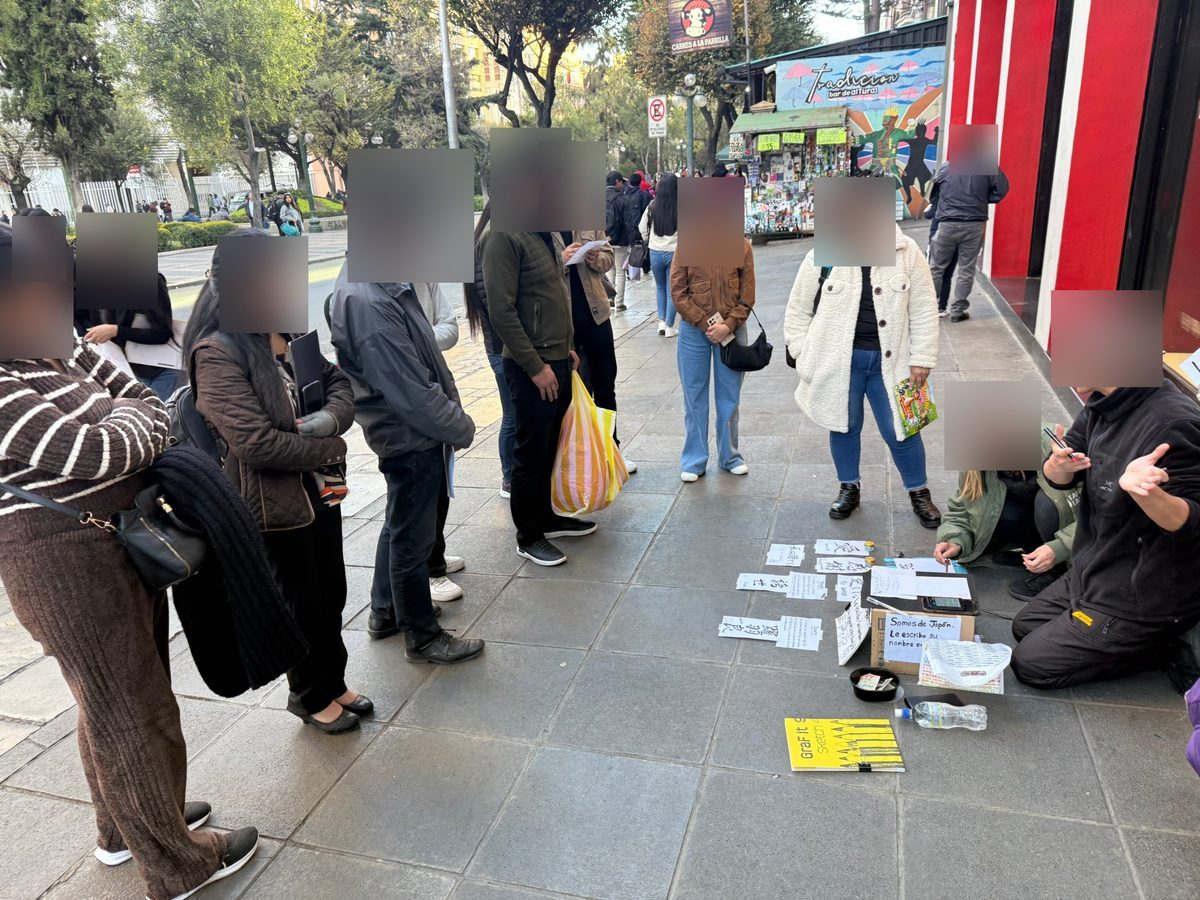
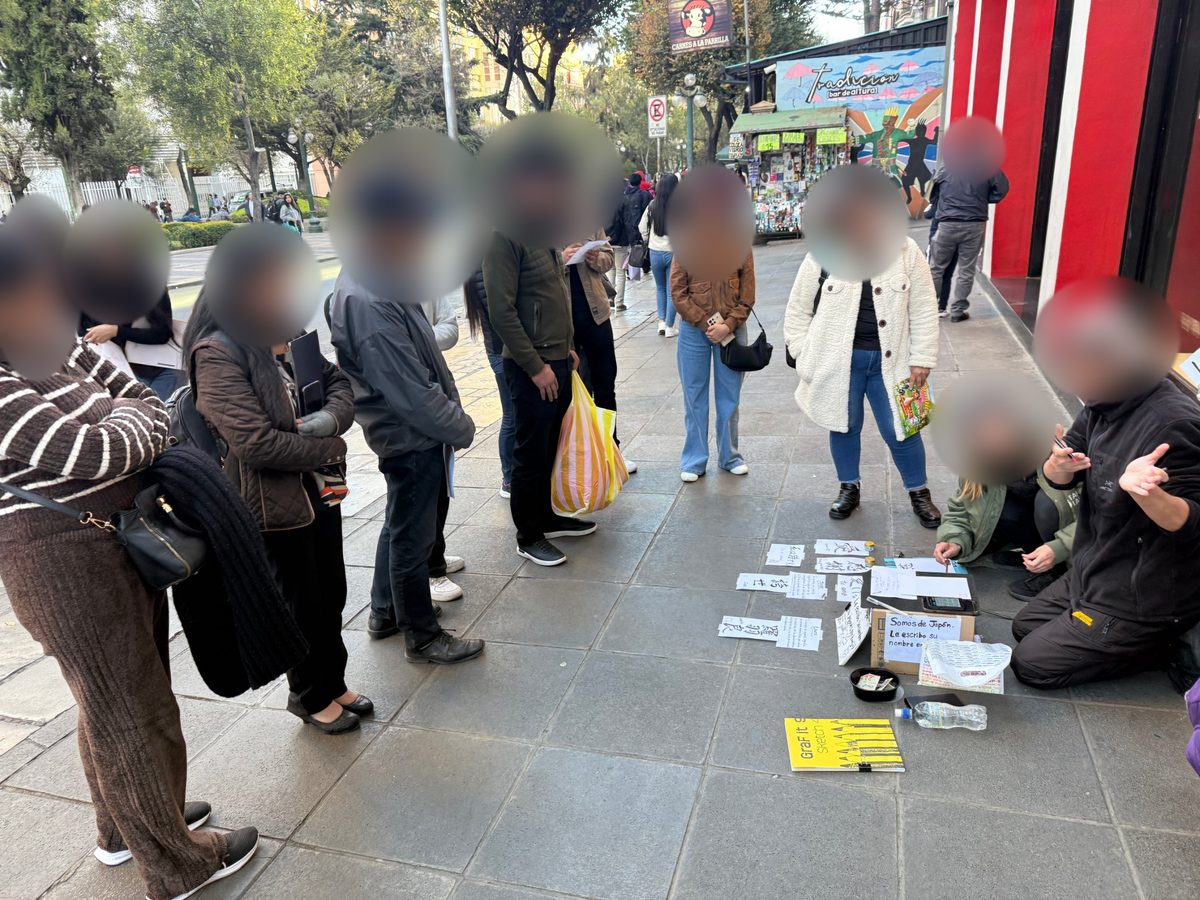
運営者情報の写真のぼかしを丸に、おみくじを削除、下を歩く足あとを追加
Claude-Session: https://claude.ai/code/session_01NJYM9PyAeaji1CJaD4Dhrr

diff --git a/src/styles/global.css b/src/styles/global.css
@@ -143,3 +143,10 @@ img { max-width: 100%; height: auto; }
 .paw-walk span:nth-child(odd) { bottom: 10px; }
 @keyframes paw-step { 0%, 100% { opacity: 0; } 12%, 40% { opacity: .28; } 62% { opacity: 0; } }
 @media (prefers-reduced-motion: reduce) { .paw-walk { display: none; } }
+
+/* 画面の下を歩く足あと */
+.paw-walk { position: fixed; left: 0; right: 0; bottom: 6px; height: 28px; z-index: 5; pointer-events: none; overflow: hidden; }
+.paw-walk span { position: absolute; bottom: 0; font-size: 16px; opacity: 0; transform: rotate(90deg); animation: paw-step 16s ease-in-out infinite; animation-delay: calc(var(--i) * .9s); left: calc(var(--i) * 6.2%); }
+.paw-walk span:nth-child(odd) { bottom: 10px; }
+@keyframes paw-step { 0%, 100% { opacity: 0; } 12%, 40% { opacity: .28; } 62% { opacity: 0; } }
+@media (prefers-reduced-motion: reduce) { .paw-walk { display: none; } }
